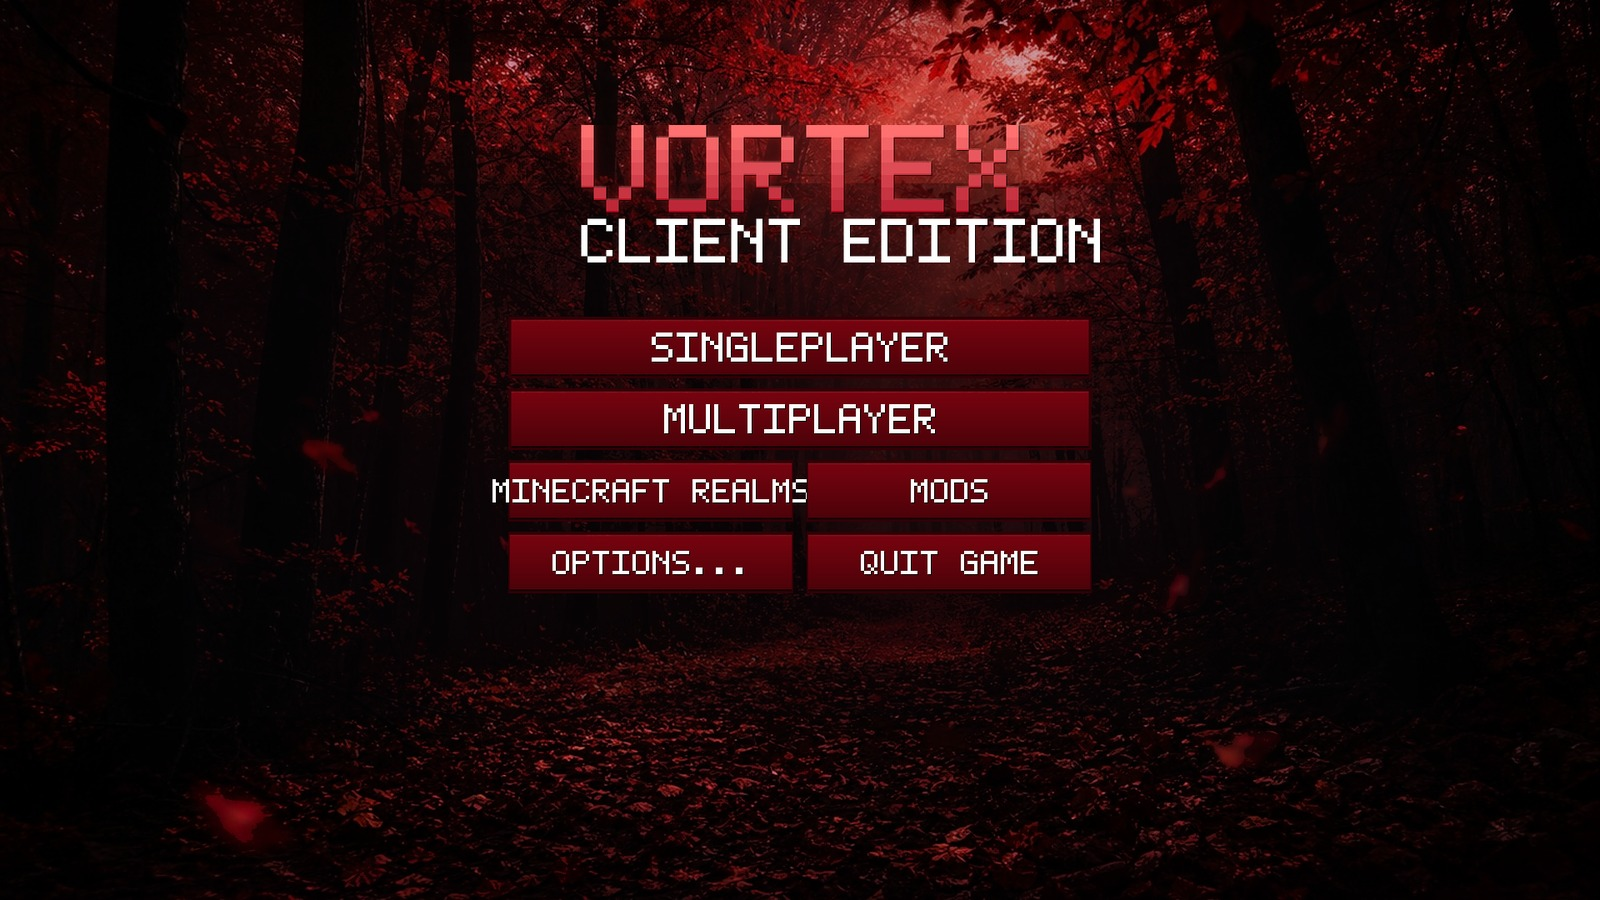
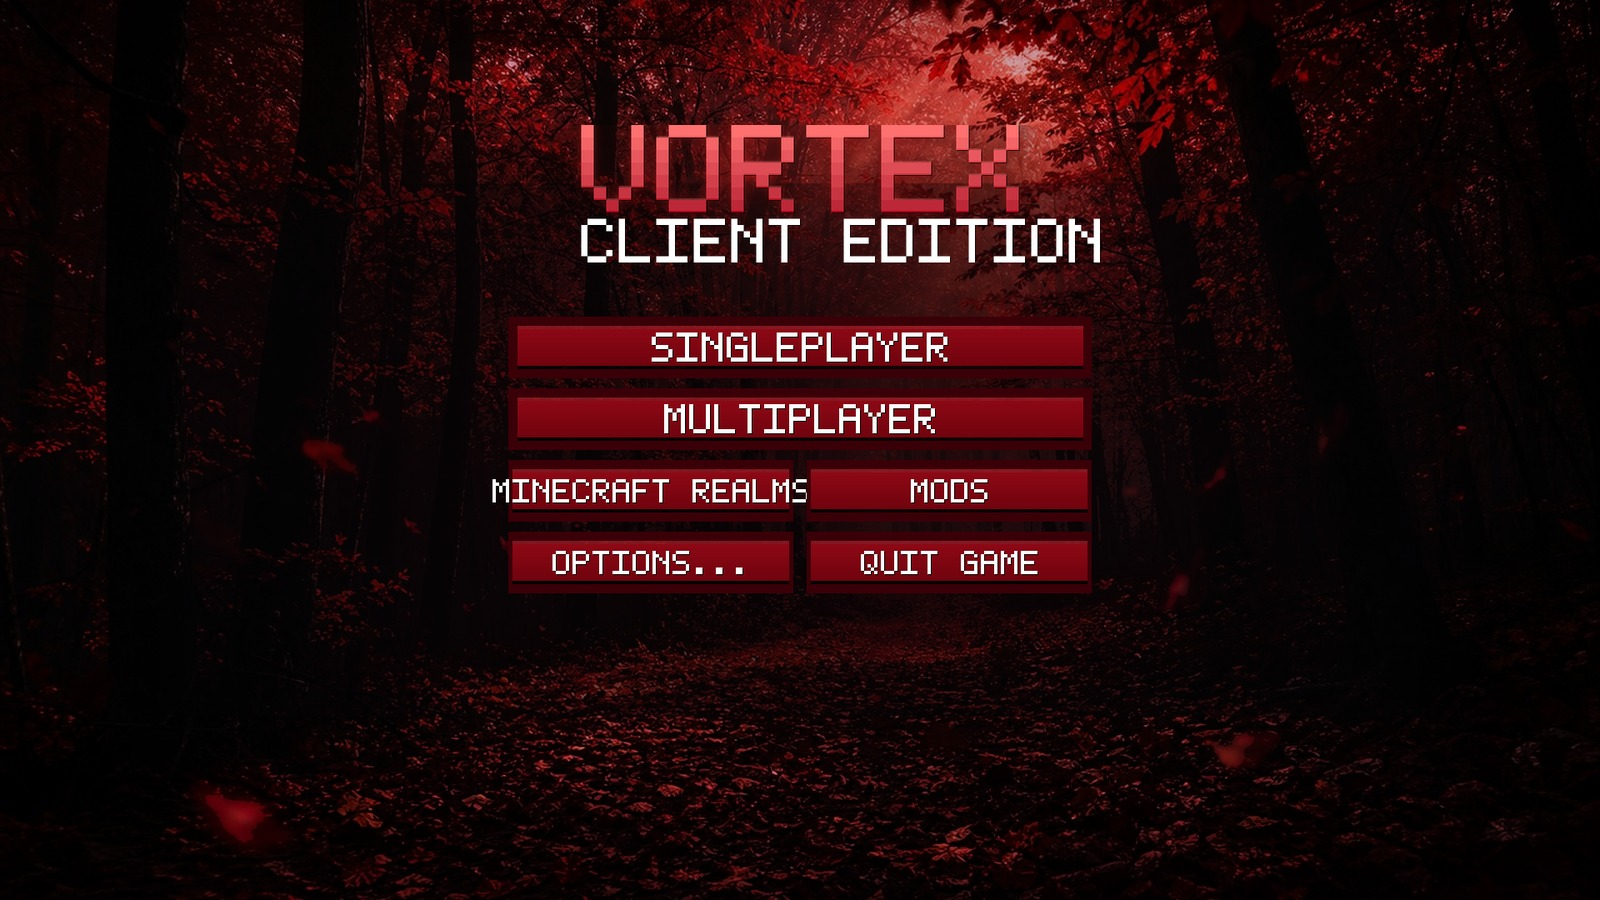
Fix magenta title-screen buttons: widget sprites must be native size
Owner screenshot on 1.21.11 showed every main-menu button painted as magenta
missing-texture bars. Cause: the nine-slice widget sprites shipped at 4x (800x80,
1024x1024 legacy sheet) while Minecraft addresses them at absolute UVs:
- button / button_highlighted: 200x20, border 3
- button_disabled: 200x20, border 1
- tab / tab_highlighted / tab_selected: 130x24, border left 2 top 2 right 2 bottom 0
- legacy gui/widgets.png (1.16.5-1.20.1): 256x256 with button rows at y=46/66/86/106/126/146

Rebuilt all widget art at native size (still crisp because Minecraft scales it), gave
tabs their own real sprites + vanilla asymmetric border instead of reusing button faces,
rebuilt the legacy sheet at native scale, and bumped PACK_SCHEMA_REV to
v8_vortex_menu_native_widgets so existing installs rebuild the pack on next launch.

Smoke test now pins every sprite dimension so a 4x regression fails CI.

Changed region(s): [[0.3125, 0.3422, 0.6875, 0.6533]]

diff --git a/app_pojavlauncher/src/main/java/net/kdt/pojavlaunch/aerix/client/AerixClientPackGenerator.kt b/app_pojavlauncher/src/main/java/net/kdt/pojavlaunch/aerix/client/AerixClientPackGenerator.kt
@@ -34,7 +34,7 @@ object AerixClientPackGenerator {
 
     /** Pre-rename pack file; removed on sync and hidden from the pack picker. */
     const val LEGACY_PACK_FILE_NAME = "Aerix-Client-Pack.zip"
-    private const val PACK_SCHEMA_REV = "v7_vortex_red_forest_menu_2026"
+    private const val PACK_SCHEMA_REV = "v8_vortex_menu_native_widgets"
     internal const val CLIENT_BACKGROUND_ASSET = "aerix/client_dark_background.webp"
 
     /**
@@ -375,14 +375,16 @@ object AerixClientPackGenerator {
                     "assets/minecraft/textures/gui/sprites/widget/$sprite.png.mcmeta",
                     """{"gui":{"scaling":{"type":"nine_slice","width":200,"height":20,"border":$border}}}"""
                 )
-                // Tab/cycle buttons share the widget look; they get the same crimson face.
+                // Tabs use their own 130x24 sprites; vanilla's tab border is asymmetric
+                // (left 2, top 2, right 2, bottom 0), so they ship as real files, not aliases.
                 if (sprite == "button") {
                     for (alias in listOf("tab", "tab_highlighted", "tab_selected")) {
-                        putBitmap(zos, "assets/minecraft/textures/gui/sprites/widget/$alias.png", bmp)
+                        val tab = menuBitmap(context, "$alias.png") ?: continue
+                        putBitmap(zos, "assets/minecraft/textures/gui/sprites/widget/$alias.png", tab)
                         putText(
                             zos,
                             "assets/minecraft/textures/gui/sprites/widget/$alias.png.mcmeta",
-                            """{"gui":{"scaling":{"type":"nine_slice","width":130,"height":24,"border":3}}}"""
+                            """{"gui":{"scaling":{"type":"nine_slice","width":130,"height":24,"border":{"left":2,"top":2,"right":2,"bottom":0}}}}"""
                         )
                     }
                 }

diff --git a/tools/vortex_menu_art.py b/tools/vortex_menu_art.py
@@ -255,60 +255,89 @@ def make_logo_legacy() -> Image.Image:
 # Buttons / widgets
 # ─────────────────────────────────────────────────────────────────────────────
 def make_button(state: str) -> Image.Image:
-    """200x20 logical button sprite at 4x. Text is drawn by Minecraft on top."""
-    scale = 4
-    w, h = 200 * scale, 20 * scale
+    """200x20 button sprite at its NATIVE size.
+
+    Minecraft's nine-slice widgets expect exactly this size (border 3). Shipping them at 4x was
+    what rendered the title screen's buttons as magenta missing-texture bars.
+    """
+    w, h = 200, 20
     if state == "disabled":
-        top, bottom, border = (46, 46, 46), (32, 32, 32), (24, 24, 24)
-        inner, glow = None, None
+        top, bottom, border = (52, 52, 52), (36, 36, 36), (26, 26, 26)
+        inner = None
     elif state == "highlighted":
-        top, bottom, border = (226, 31, 61), (169, 0, 22), (255, 67, 84)
-        inner, glow = (255, 120, 130), (255, 37, 37, 90)
+        top, bottom, border = (232, 46, 70), (176, 8, 26), (255, 82, 100)
+        inner = (255, 150, 158)
     else:
-        top, bottom, border = (122, 4, 16), (74, 2, 9), (48, 0, 6)
-        inner, glow = (198, 26, 42), None
+        top, bottom, border = (150, 10, 24), (104, 2, 12), (58, 0, 8)
+        inner = (206, 34, 48)
 
     img = Image.new("RGBA", (w, h), (0, 0, 0, 0))
     draw = ImageDraw.Draw(img)
-    if glow:
-        pad = Image.new("RGBA", (w + 24, h + 24), (0, 0, 0, 0))
-        ImageDraw.Draw(pad).rounded_rectangle([12, 12, w + 11, h + 11], radius=8, fill=glow)
-        img = Image.alpha_composite(img, pad.filter(ImageFilter.GaussianBlur(6)).crop((0, 0, w, h)))
-        draw = ImageDraw.Draw(img)
     for row in range(h):
         t = row / (h - 1)
         colour = tuple(int(top[i] + (bottom[i] - top[i]) * t) for i in range(3)) + (255,)
         draw.line([(0, row), (w - 1, row)], fill=colour)
-    draw.rectangle([0, 0, w - 1, h - 1], outline=border + (255,), width=scale)
-    if inner:
-        draw.line([(scale, scale), (w - 1 - scale, scale)], fill=inner + (140,), width=scale // 2)
-        draw.line([(scale, h - 1 - scale), (w - 1 - scale, h - 1 - scale)], fill=(0, 0, 0, 150), width=scale // 2)
+    # 3-texel border on every side (matches the vanilla nine_slice `border`).
+    draw.rectangle([0, 0, w - 1, h - 1], outline=border + (255,), width=3)
+    if inner is not None:
+        draw.line([(3, 3), (w - 4, 3)], fill=inner + (150,))
+        draw.line([(3, h - 4), (w - 4, h - 4)], fill=(0, 0, 0, 160))
+    return img
+
+
+def make_tab(state: str) -> Image.Image:
+    """130x24 tab sprite (vanilla border: left 2, top 2, right 2, bottom 0)."""
+    w, h = 130, 24
+    if state == "selected":
+        top, bottom, border = (150, 10, 24), (104, 2, 12), (58, 0, 8)
+        edge = (232, 46, 70)
+    elif state == "highlighted":
+        top, bottom, border = (196, 24, 42), (132, 4, 16), (255, 82, 100)
+        edge = (255, 120, 130)
+    else:
+        top, bottom, border = (64, 60, 66), (38, 34, 40), (26, 24, 28)
+        edge = (92, 86, 94)
+    img = Image.new("RGBA", (w, h), (0, 0, 0, 0))
+    draw = ImageDraw.Draw(img)
+    for row in range(h):
+        t = row / (h - 1)
+        colour = tuple(int(top[i] + (bottom[i] - top[i]) * t) for i in range(3)) + (255,)
+        draw.line([(0, row), (w - 1, row)], fill=colour)
+    draw.line([(0, 0), (w - 1, 0)], fill=edge + (255,), width=2)
+    draw.line([(0, 0), (0, h - 1)], fill=edge + (255,), width=2)
+    draw.line([(w - 2, 0), (w - 2, h - 1)], fill=edge + (255,), width=2)
+    draw.line([(0, h - 1), (w - 1, h - 1)], fill=border + (255,), width=2)
     return img
 
 
 def make_widgets_legacy() -> Image.Image:
-    """1.16.5-1.19.2 gui/widgets.png (256x256) in the Vortex crimson palette."""
-    scale = 4
-    sheet = Image.new("RGBA", (256 * scale, 256 * scale), (0, 0, 0, 0))
+    """1.16.5-1.20.1 gui/widgets.png (256x256) at NATIVE scale.
+
+    Vanilla blits these rows by exact UV, so every piece sits at its vanilla offset:
+      (0,0) 182x22 hotbar, (0,22) 24x24 selection, (0,46) 200x20 button,
+      (0,66) highlighted, (0,86) disabled, (0,106) slider, (0,126) slider highlighted.
+    Shipping this sheet at 4x put the art nowhere near those UVs, which is why the legacy
+    title screen drew magenta buttons.
+    """
+    sheet = Image.new("RGBA", (256, 256), (0, 0, 0, 0))
     draw = ImageDraw.Draw(sheet)
 
-    def blit(state: str, x: int, y: int) -> None:
-        btn = make_button(state)
-        sheet.alpha_composite(btn, (x * scale, y * scale))
+    # Hotbar: dark crimson glass with a bright hairline.
+    draw.rectangle([0, 0, 181, 21], fill=(22, 8, 12, 205))
+    draw.rectangle([0, 0, 181, 21], outline=(196, 30, 48, 225), width=1)
+    # Selection highlight (24x24) with a hot inner glow.
+    draw.rectangle([0, 22, 23, 45], outline=(255, 92, 102, 235), width=1)
+    draw.rectangle([2, 24, 21, 43], fill=(255, 37, 37, 46))
 
-    # Hotbar + selection highlight.
-    draw.rectangle([0, 0, 181 * scale, 21 * scale], fill=(18, 6, 10, 210))
-    draw.rectangle([0, 0, 181 * scale, 21 * scale], outline=(190, 26, 44, 220), width=scale)
-    draw.rectangle([0, 21 * scale, 23 * scale, 44 * scale], outline=(255, 90, 100, 220), width=scale)
-    draw.rectangle([2 * scale, 23 * scale, 21 * scale, 42 * scale], fill=(255, 37, 37, 40))
+    def blit(state: str, y: int) -> None:
+        sheet.alpha_composite(make_button(state), (0, y))
 
-    blit("disabled", 0, 46)
-    blit("normal", 0, 66)
-    blit("highlighted", 0, 86)
-    # Sliders reuse button-sized rows in legacy sheets; crimson variants keep them consistent.
-    blit("normal", 0, 106)
-    blit("highlighted", 0, 126)
-    blit("disabled", 0, 146)
+    blit("disabled", 46)
+    blit("normal", 66)
+    blit("highlighted", 86)
+    blit("normal", 106)
+    blit("highlighted", 126)
+    blit("disabled", 146)
     return sheet
 
 
@@ -335,7 +364,7 @@ def make_preview(scene: Image.Image, logo: Image.Image) -> Image.Image:
     rows = [["SINGLEPLAYER"], ["MULTIPLAYER"], ["MINECRAFT REALMS", "MODS"], ["OPTIONS...", "QUIT GAME"]]
     for row in rows:
         if len(row) == 1:
-            img = make_button("normal").resize((btn_w, btn_h), Image.LANCZOS)
+            img = make_button("normal").resize((btn_w, btn_h), Image.NEAREST)
             preview.alpha_composite(img, (x, y))
             label = row[0]
             tw = text_width(label, 5, tracking=1)
@@ -346,7 +375,7 @@ def make_preview(scene: Image.Image, logo: Image.Image) -> Image.Image:
             for i, label in enumerate(row):
                 bx = x + i * (half + 16)
                 state = "normal"
-                img = make_button(state).resize((half, btn_h), Image.LANCZOS)
+                img = make_button(state).resize((half, btn_h), Image.NEAREST)
                 preview.alpha_composite(img, (bx, y))
                 tw = text_width(label, 4, tracking=1)
                 draw_pixel_text(preview, label, bx + (half - tw) // 2, y + (btn_h - 28) // 2, 4, (255, 255, 255))
@@ -366,6 +395,9 @@ def main() -> None:
     for state in ("normal", "highlighted", "disabled"):
         name = "button" if state == "normal" else f"button_{state}"
         make_button(state).save(OUT / f"{name}.png")
+    for state in ("normal", "highlighted", "selected"):
+        name = "tab" if state == "normal" else f"tab_{state}"
+        make_tab(state).save(OUT / f"{name}.png")
     make_widgets_legacy().save(OUT / "widgets_legacy.png")
     make_overlay().save(OUT / "panorama_overlay.png")
 

diff --git a/tests/vortex_menu_smoke.py b/tests/vortex_menu_smoke.py
@@ -35,15 +35,20 @@ assert len(raw) < 400_000, "menu scene stays small enough for a phone APK"
 # Logo sheets: modern = 256x64 logical at 4x, legacy = 256x256 split at 4x.
 assert png_size(ASSETS / "logo_modern.png") == (1024, 256)
 assert png_size(ASSETS / "logo_legacy.png") == (1024, 1024)
+# Widget sprites must be at NATIVE size: nine-slice UVs are absolute. 4x art rendered as
+# magenta missing-texture bars on the title screen (owner screenshot, 1.21.11).
 for name in ("button.png", "button_highlighted.png", "button_disabled.png"):
-    assert png_size(ASSETS / name) == (800, 80), name
-assert png_size(ASSETS / "widgets_legacy.png") == (1024, 1024)
+    assert png_size(ASSETS / name) == (200, 20), name
+assert png_size(ASSETS / "tab.png") == (130, 24)
+assert png_size(ASSETS / "tab_highlighted.png") == (130, 24)
+assert png_size(ASSETS / "tab_selected.png") == (130, 24)
+assert png_size(ASSETS / "widgets_legacy.png") == (256, 256)
 assert png_size(ASSETS / "panorama_overlay.png") == (16, 128)
 assert "VORTEX CLIENT!" in (ASSETS / "splashes.txt").read_text()
 
 # ── Pack generator writes them into the version-correct paths ────────────
 assert 'internal const val MENU_ASSET_DIR = "vortex_menu"' in pack
-assert "v7_vortex_red_forest_menu_2026" in pack, "new art invalidates old packs"
+assert "v8_vortex_menu_native_widgets" in pack, "new art invalidates old packs"
 assert "private fun appendVortexRedForestMenu(context: Context, zos: ZipOutputStream, packFmt: Int)" in pack
 assert 'if (packFmt >= 13) "logo_modern.png" else "logo_legacy.png"' in pack
 assert '"assets/minecraft/textures/gui/title/minecraft.png"' in pack
@@ -54,6 +59,9 @@ assert '"assets/minecraft/textures/gui/title/background/panorama_$idx.png"' in p
 assert 'menuBitmap(context, "panorama_overlay.png")' in pack
 assert 'assets/minecraft/textures/gui/sprites/widget/$sprite.png' in pack, "1.20.2+ buttons"
 assert '"nine_slice"' in pack and '"width":200,"height":20,"border":$border' in pack
+assert '\"border\":{\"left\":2,\"top\":2,\"right\":2,\"bottom\":0}' in pack, "vanilla tab border"
+assert 'menuBitmap(context, "$alias.png")' in pack, "tabs ship their own 130x24 sprites"
+assert "v8_vortex_menu_native_widgets" in pack, "old broken packs are rebuilt"
 assert 'menuBitmap(context, "widgets_legacy.png")' in pack, "legacy widget sheet"
 assert 'menuText(context, "splashes.txt")' in pack
 # Missing art must degrade to the old renderer, never to a missing texture / crash.

diff --git a/tests/client_background_smoke.py b/tests/client_background_smoke.py
@@ -14,7 +14,7 @@ assert len(data) < 500_000
 assert 'CLIENT_BACKGROUND_ASSET = "aerix/client_dark_background.webp"' in pack
 assert 'assets.open(CLIENT_BACKGROUND_ASSET)' in pack
 assert 'assets.open(AerixClientPackGenerator.CLIENT_BACKGROUND_ASSET)' in overlay
-assert 'v7_vortex_red_forest_menu_2026' in pack
+assert 'v8_vortex_menu_native_widgets' in pack
 assert 'append(PACK_SCHEMA_REV)' in pack
 assert 'if (AerixClientStore.packCustomMainMenu)' in pack
 assert 'for (faceIdx in 0..5)' in pack
